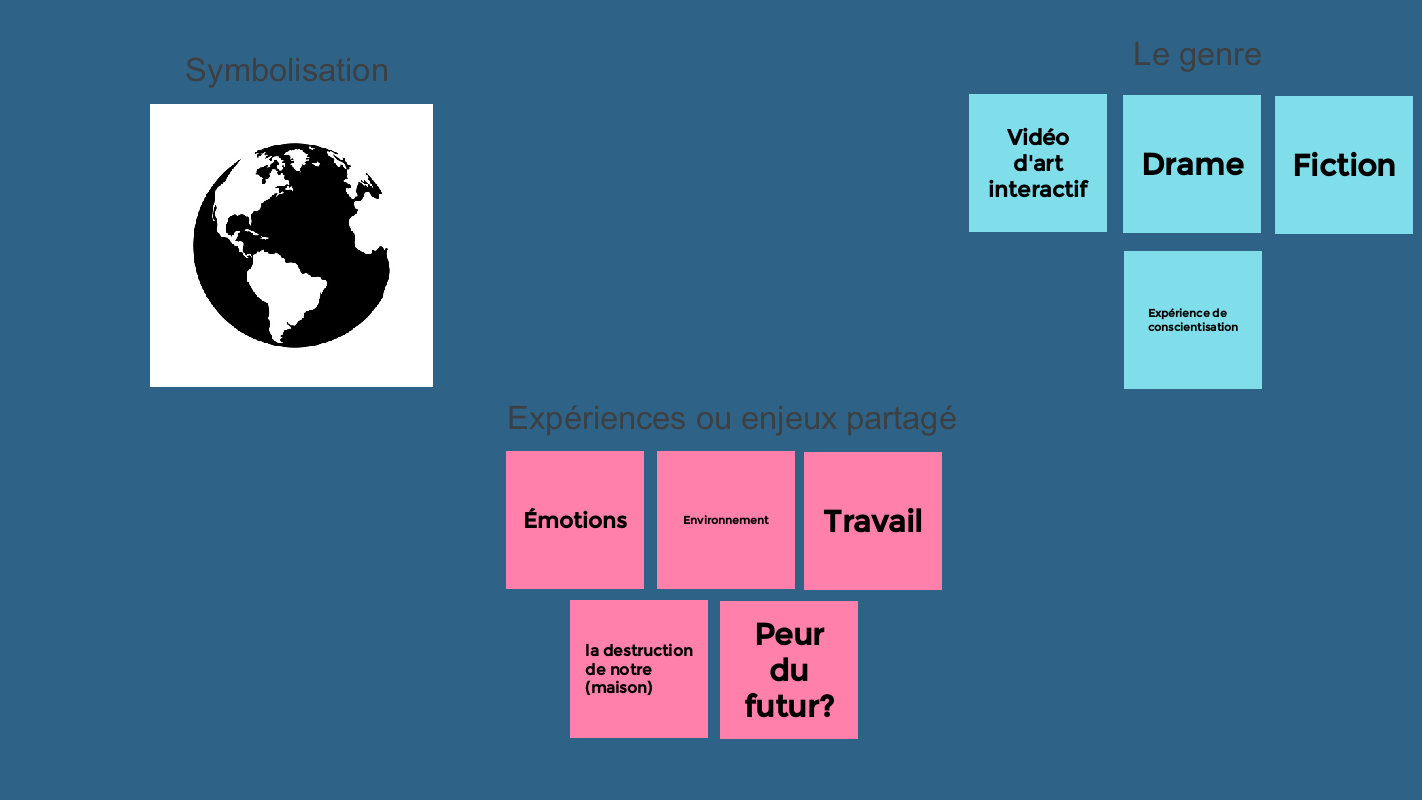
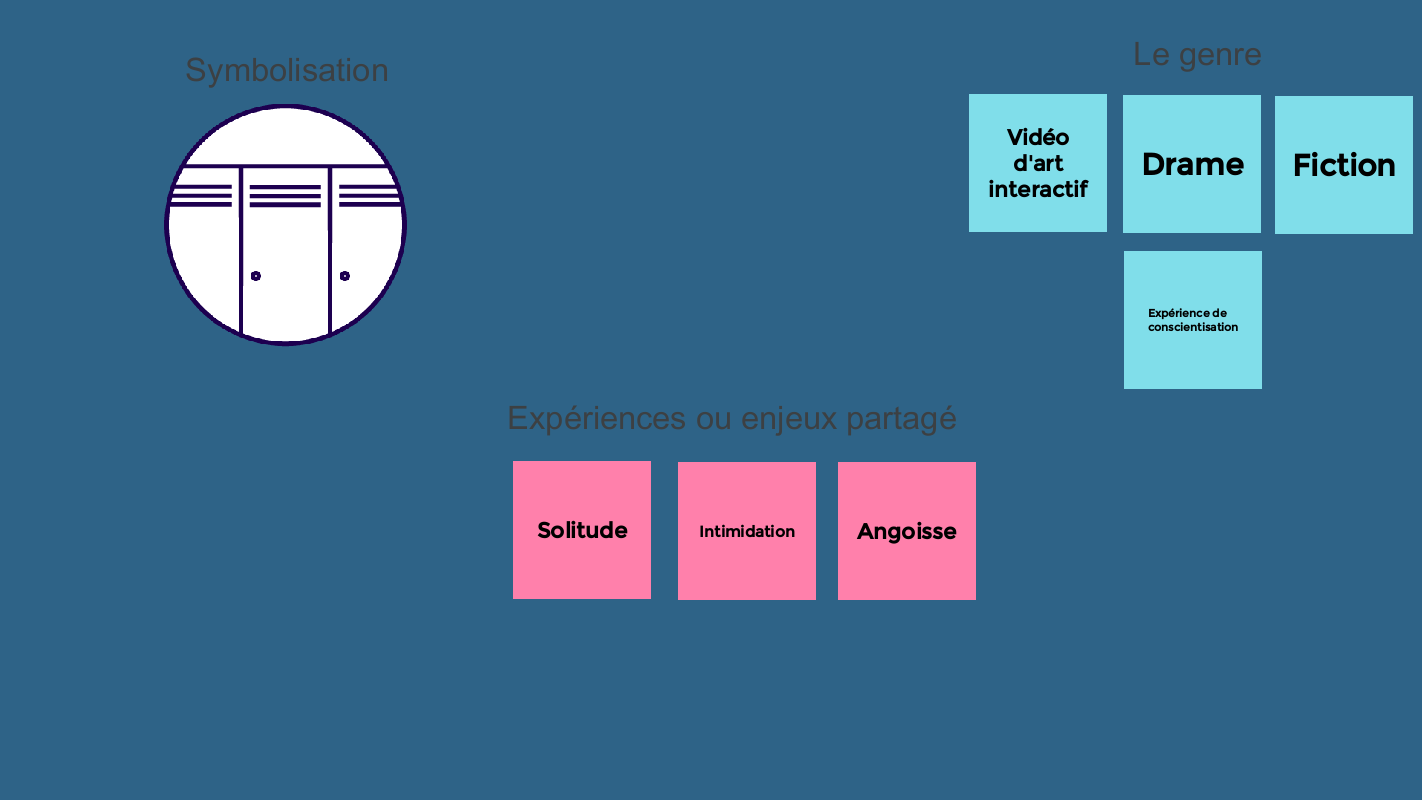
changer

Changed region(s): [[0.3404, 0.5625, 0.7117, 0.9375], [0.0928, 0.125, 0.3094, 0.5]]

diff --git a/docs/preproduction/README.md b/docs/preproduction/README.md
@@ -31,12 +31,15 @@
 ![Exemple de cartographie 2](medias/cartographie_2.png)
 
 ## Intention de départ
-Pour ce projet, nous souhaitons démontré l'importance de prendre soin de notre planete par nos actes et nos gestes de la vie de tout les jours.
+Immersion dans la peau d’une personne d’un enfant non intimidé jouant dans la cour de récréation vs dans la peau d’un enfant intimidé et enfermé dans un casier.
 
 
 ## Synopsis
-XXNAMEXX se réveil dans un monde parallèle du passé dans son aventure il y auras plusieurs choix qui peuvent altéré le futur actuelle en bien ou en mal mais les choix fait seront irréversible.
+Tu es enfermé dans un casier sombre et glacial pour la 89 ème fois cette année le temps te paraît une éternité des rires moqueurs, ta respiration devient de plus en plus insupportable, l'angoisse commence à prendre le dessus 5 minutes devient un long moment interminable.
 
+
+
+Tu es dans la cour de récréation ou tu t'amuses a jouer a plusieurs jeux différents le temps passe trop rapidement.
 
 ## Tableau d'ambiance (*moodboard*)
 
@@ -45,7 +48,8 @@ XXNAMEXX se réveil dans un monde parallèle du passé dans son aventure il y au
 
 
 ## Scénario, scénarimage ou document audio/visuel
-[Document audio](https://drive.google.com/drive/folders/1EsV6DK3uGML3rCfvnfVxutomEO_3ko7u)
+[scénarimage](medias/storyboard-casier.png)
+[scénarimage](medias/storyboard-cours.png)
 
 # Planification technique d'un prototype (devis technique)
 ## Schémas ou plans techniques
